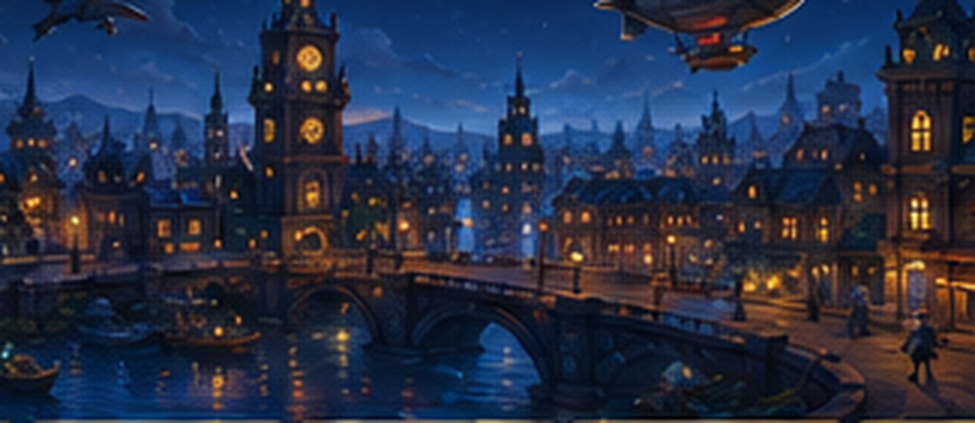
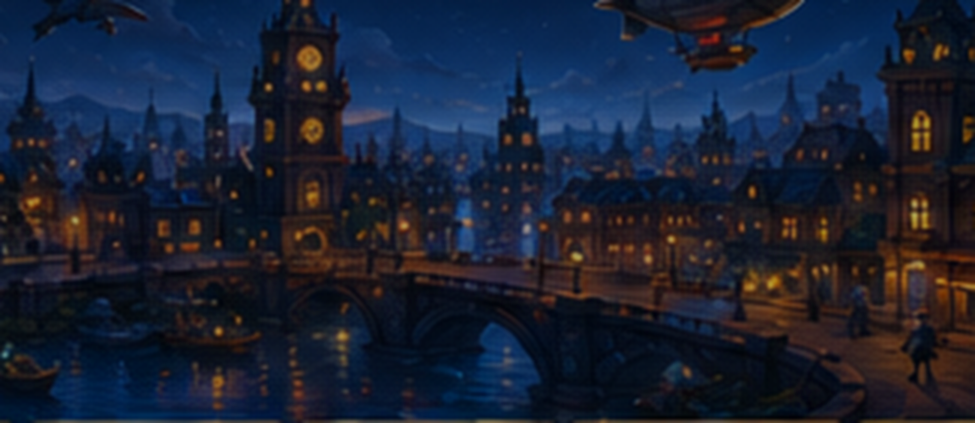
3D-gerenderter Fynnox + moderner Look (Partikel, Tiefe, Glow)
- Fynnox aus dem 3D-Modell (fynnox.glb -> Seitenansicht) freigestellt und als
  Sprite eingebunden -> AAA-Qualitaet, klar erkennbar (Front-View als fynnox-front.png dabei)
- Hintergrund abgedunkelt + leichte Tiefenunschaerfe -> Figuren heben sich ab
- Schwebende Licht-Partikel + treibender Nebel -> lebendiger, moderner Look
- Glow hinter Fynnox und Vorax; Figuren groesser
- Test weiterhin komplett gruen, 0 Fehler

diff --git a/prototype-web/src/world/level.js b/prototype-web/src/world/level.js
@@ -21,12 +21,43 @@ export class Level {
     // Echtes Hintergrundbild (aus dem Design-Sheet). Fällt sonst auf die Skyline zurück.
     this.bgImage = null;
     if (data.background) { const img = new Image(); img.onload = () => { this.bgImage = img; }; img.src = data.background; }
+    // Schwebende Licht-Partikel (Glut/Leuchtstaub) + treibender Nebel -> Lebendigkeit
+    this.motes = Array.from({ length: 32 }, () => ({ x: rng(), y: rng(), r: 0.8 + rng() * 2.6, ph: rng() * 6.28, vx: (rng() - 0.35) * 0.012, vy: -(0.006 + rng() * 0.016) }));
+    this.fog = Array.from({ length: 3 }, () => ({ x: rng(), y: 0.62 + rng() * 0.18, r: 130 + rng() * 120, sp: 0.004 + rng() * 0.006 }));
   }
 
   update(dt) {
     this.time += dt;
     this.dayNight.update(dt);
     for (const c of this.collectibles) c.update(dt);
+    // Partikel + Nebel driften
+    for (const m of this.motes) {
+      m.x += m.vx * dt; m.y += m.vy * dt;
+      if (m.y < -0.05) { m.y = 1.05; m.x = (m.x * 7.3 % 1 + 1) % 1; }
+      if (m.x < -0.05) m.x = 1.05; else if (m.x > 1.05) m.x = -0.05;
+    }
+    for (const f of this.fog) { f.x += f.sp * dt; if (f.x > 1.25) f.x = -0.25; }
+  }
+
+  // Nebelschwaden über dem Hintergrund (Tiefe/Atmosphäre)
+  _renderFog(ctx, W, groundY) {
+    for (const f of this.fog) {
+      const x = ((f.x % 1) + 1) % 1 * (W + 2 * f.r) - f.r, y = groundY - 40 - f.y * 60;
+      const g = ctx.createRadialGradient(x, y, 4, x, y, f.r);
+      g.addColorStop(0, 'rgba(120,150,200,0.10)'); g.addColorStop(1, 'rgba(120,150,200,0)');
+      ctx.fillStyle = g; ctx.beginPath(); ctx.ellipse(x, y, f.r, f.r * 0.5, 0, 0, Math.PI * 2); ctx.fill();
+    }
+  }
+
+  // Schwebende Licht-Partikel (Glut) im Vordergrund
+  _renderMotes(ctx, W, H) {
+    for (const m of this.motes) {
+      const a = 0.18 + 0.4 * (0.5 + 0.5 * Math.sin(this.time * 1.6 + m.ph));
+      const x = m.x * W, y = m.y * H, r = m.r * 4;
+      const g = ctx.createRadialGradient(x, y, 0, x, y, r);
+      g.addColorStop(0, `rgba(247,214,140,${a})`); g.addColorStop(1, 'rgba(247,214,140,0)');
+      ctx.fillStyle = g; ctx.beginPath(); ctx.arc(x, y, r, 0, Math.PI * 2); ctx.fill();
+    }
   }
 
   // Zeichnet Himmel + Skyline + Boden + Plattformen. Held/HUD zeichnet main.js darüber.
@@ -46,6 +77,11 @@ export class Level {
       // Tag-Aufhellung / Nacht-Vertiefung
       if (theme.sunAlpha > 0.02) { ctx.fillStyle = `rgba(255,238,190,${0.4 * theme.sunAlpha})`; ctx.fillRect(0, 0, W, groundY); }
       if (night > 0.02) { ctx.fillStyle = `rgba(10,18,40,${0.15 * night})`; ctx.fillRect(0, 0, W, groundY); }
+      this._renderFog(ctx, W, groundY);
+      // unteren Spielbereich abdunkeln -> Figuren heben sich klar ab (Tiefe/Fokus)
+      const dk = ctx.createLinearGradient(0, groundY - 230, 0, groundY);
+      dk.addColorStop(0, 'rgba(6,10,20,0)'); dk.addColorStop(1, 'rgba(6,10,20,0.5)');
+      ctx.fillStyle = dk; ctx.fillRect(0, groundY - 230, W, 230);
     } else {
       // Fallback: gezeichneter Himmel + Sterne + Mond + Skyline
       const sky = ctx.createLinearGradient(0, 0, 0, H);
@@ -79,7 +115,10 @@ export class Level {
     }
 
     // Kalter Nacht-Farbstich
-    if (night > 0.02) { ctx.fillStyle = `rgba(12,22,48,${0.18 * night})`; ctx.fillRect(0, 0, W, H); }
+    if (night > 0.02) { ctx.fillStyle = `rgba(12,22,48,${0.12 * night})`; ctx.fillRect(0, 0, W, H); }
+
+    // Schwebende Licht-Partikel (Leben + moderner Glanz)
+    this._renderMotes(ctx, W, H);
 
     // Vignette (Fokus zur Mitte, moderner Look)
     const vg = ctx.createRadialGradient(W / 2, H / 2, H * 0.35, W / 2, H / 2, H * 0.85);

diff --git a/prototype-web/src/entities/player.js b/prototype-web/src/entities/player.js
@@ -101,8 +101,14 @@ export class Player {
 
     // Echtes Fynnox-Sprite (falls geladen) — sonst weiter mit der Silhouette
     if (this.sprite) {
-      const dh = h * 1.5, dw = dh * (this.sprite.width / this.sprite.height);
+      const dh = h * 1.9, dw = dh * (this.sprite.width / this.sprite.height);
       const sq = this.state === 'jump' || this.state === 'doubleJump' ? 1.04 : (this.state === 'fall' ? 0.97 : 1);
+      // weicher Glow hinter dem Helden -> hebt ihn klar vom Hintergrund ab
+      const gl = ctx.createRadialGradient(0, -dh * 0.35 + h / 2, 4, 0, -dh * 0.35 + h / 2, dw * 0.95);
+      gl.addColorStop(0, 'rgba(47,150,200,0.5)'); gl.addColorStop(0.6, 'rgba(20,40,70,0.35)'); gl.addColorStop(1, 'rgba(20,40,70,0)');
+      ctx.save(); ctx.scale(1 / this.facing, 1); ctx.fillStyle = gl;
+      ctx.beginPath(); ctx.ellipse(0, -dh * 0.35 + h / 2, dw * 0.7, dh * 0.6, 0, 0, Math.PI * 2); ctx.fill();
+      ctx.restore();
       ctx.translate(0, h / 2); ctx.scale(1, sq); // um die Füße stauchen
       ctx.imageSmoothingEnabled = true;
       ctx.drawImage(this.sprite, -dw / 2, -dh, dw, dh);

diff --git a/prototype-web/src/entities/boss.js b/prototype-web/src/entities/boss.js
@@ -120,8 +120,11 @@ export class Boss {
     ctx.fillStyle = 'rgba(0,0,0,0.3)'; ctx.beginPath(); ctx.ellipse(0, h / 2, w * 0.42, 7, 0, 0, 7); ctx.fill();
 
     if (this.img) {
-      // Echtes Vorax-Artwork
-      const dh = h * 1.2, dw = dh * (this.img.width / this.img.height);
+      // Echtes Vorax-Artwork (größer + Glow zur Abhebung)
+      const dh = h * 1.42, dw = dh * (this.img.width / this.img.height);
+      const gl = ctx.createRadialGradient(0, 0, 4, 0, 0, dw);
+      gl.addColorStop(0, 'rgba(122,60,196,0.4)'); gl.addColorStop(1, 'rgba(122,60,196,0)');
+      ctx.fillStyle = gl; ctx.beginPath(); ctx.ellipse(0, 0, dw * 0.7, dh * 0.6, 0, 0, 7); ctx.fill();
       ctx.drawImage(this.img, -dw / 2, h / 2 - dh, dw, dh);
       if (this.state === 'vulnerable') { ctx.fillStyle = 'rgba(199,123,255,0.14)'; ctx.beginPath(); ctx.ellipse(0, 0, dw * 0.55, dh * 0.55, 0, 0, 7); ctx.fill(); }
     } else {

diff --git a/plan.md b/plan.md
@@ -47,9 +47,11 @@ Mechanik & modulare Architektur und ist als Web-App über GitHub Pages spielbar.
 - ✅ Welt: Level „Altstadt – Nacht", Parallax mit Tiefe/Dunst, Sterne, Mond, Vignette, Tag/Nacht
 - ✅ HUD: Avatar+Level, XP, Münzen/Kristalle, Minimap, Missions-Panel, Gadget-Leiste
 - ✅ Einsätze + Story: Dialog-System (Comic-Sprechblasen), 4 Einsätze, Belohnungen, Cliffhanger
-- 🔄 Echte Grafik: Fynnox-Sprite, Raven-City-Nacht-Hintergrund, Dr.-Vorax-Boss + Dialog-Portraits
-      (Fynnox/Orion/Raven/Vorax) aus den Design-Sheets freigestellt in `assets/`;
-      Katze/Dieb/NPCs + Fynnox-Lauf-Frames noch offen
+- ✅ Echte Grafik: **3D-gerenderter Fynnox** (aus `fynnox.glb`, Seitenansicht freigestellt),
+      Raven-City-Hintergrund (Tiefenunschärfe/abgedunkelt), Dr.-Vorax-Boss + Dialog-Portraits
+- ✅ „Glänzend modern": schwebende Licht-Partikel, Nebel, Glow um Figuren, Tiefen-Fokus
+- 🔄 Offen: Fynnox-Lauf-Animation (Front-View vorhanden), Katze/Dieb/NPCs als echte Sprites,
+      optional Live-3D-Modell (Three.js) statt gerenderter Views
 - ✅ GitHub-Repo + GitHub Pages Deploy
 
 ## Bewusst NICHT im aktuellen Schritt
